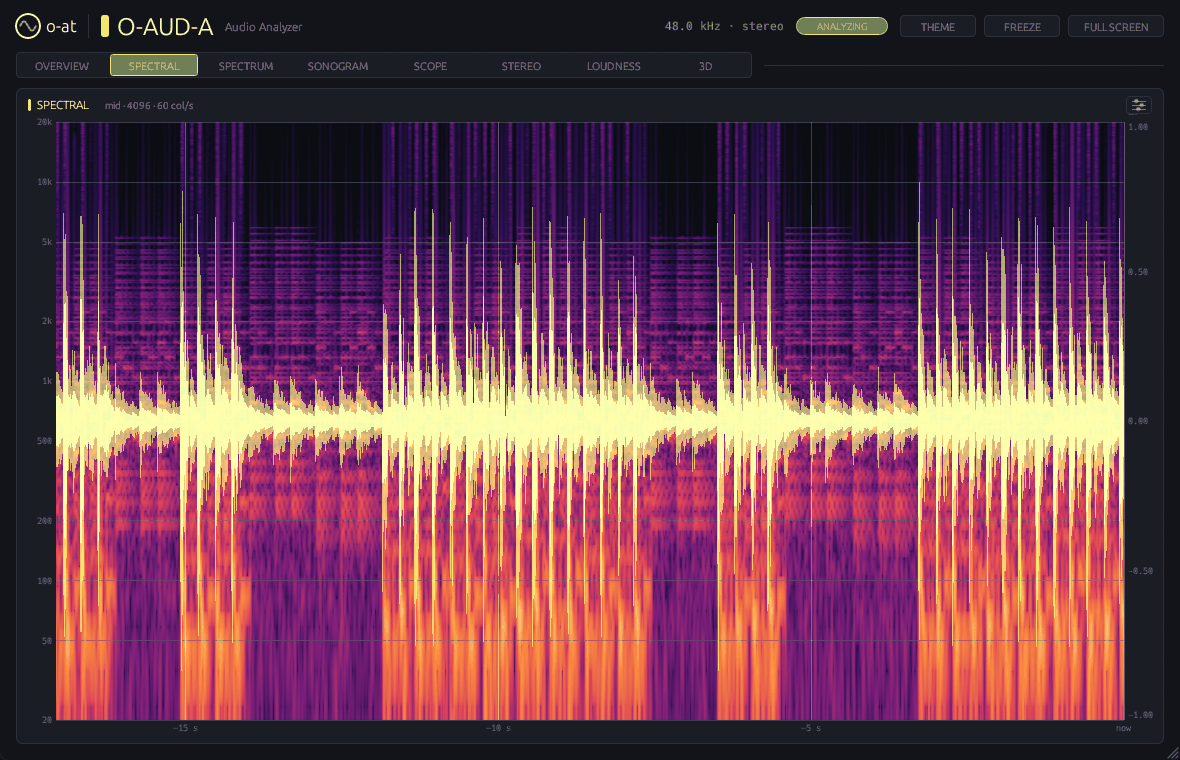
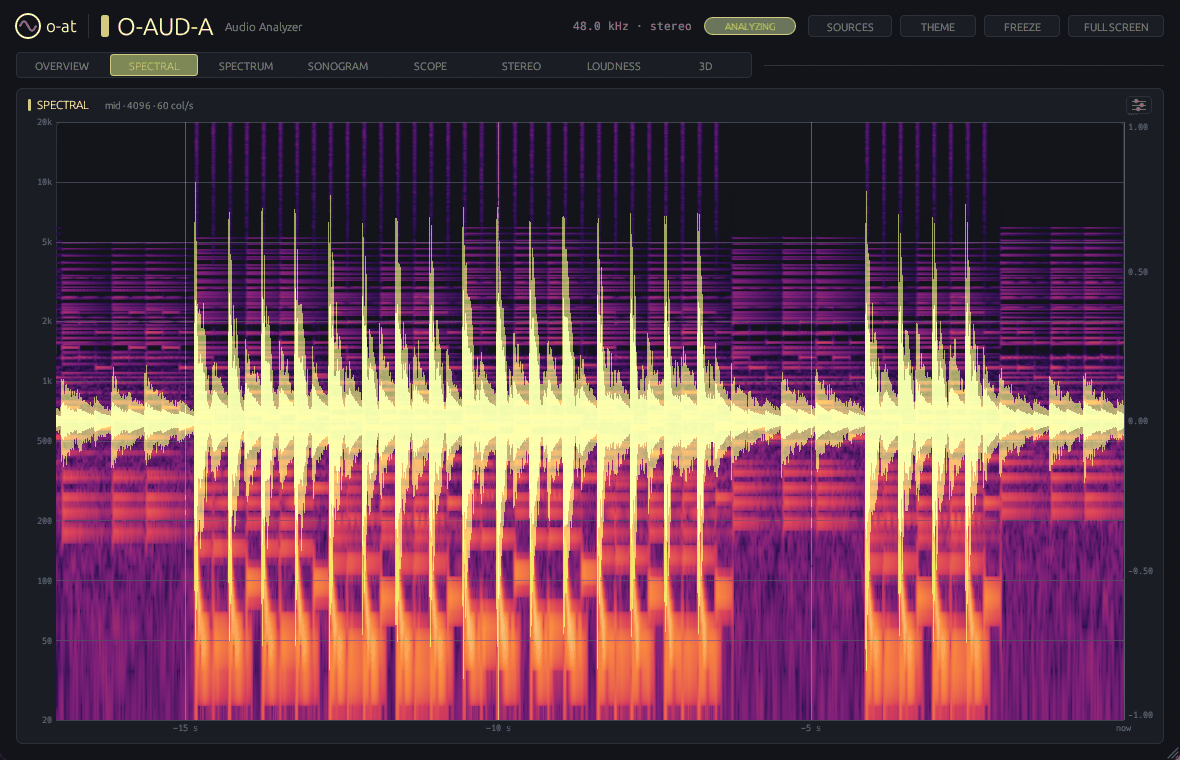
Updated docs

diff --git a/README.md b/README.md
@@ -222,6 +222,8 @@ Don't play the bus on the device it captures: that feeds back. It remembers its 
 source and settings in `%APPDATA%\O-AUD-TX\settings.ini`, and accepts `--bus NAME`,
 `--input NAME` and `--loopback NAME` (`default` selects the system default device).
 
+![O-AUD-TX application sending an input device, with its AUDIO SOURCE panel](docs/o-aud-tx-app.png)
+
 Build them with:
 
 ```bash
@@ -289,7 +291,8 @@ analysis fell behind. Its pages, in this order, show:
 | **3D**: the spectrum history as a shaded surface with the 3D grid on; the footer shows the camera's yaw, pitch and zoom. | **Settings**: the spectrum's SETTINGS tab, with segmented selectors and sliders. |
 
 The screenshots show a synthetic test piece: chords, bass, drums and a melody, panned
-across the stereo field.
+across the stereo field. The comparisons below add a louder, brighter and wider copy of
+it as the bus **Reference**.
 
 ### Sources: comparing tracks and references
 
@@ -297,6 +300,8 @@ across the stereo field.
 to the input, up to eight, each with a color of its own. The panel lists every source's
 format and momentary, short-term and integrated loudness. Pick a live bus from the list
 or type a name, which waits for its transmitter.
+
+![SOURCES panel with the input and a Reference bus, over the spectrum with match level and masking](docs/o-aud-a/sources.png)
 
 Every view chooses its signals under **SIGNALS** at the top of its settings: INPUT and
 each listed bus, as toggles in their colors. One signal is drawn as usual, with all of
@@ -314,6 +319,8 @@ the view's settings; several are overlaid, each in its color and named in the he
 Every view shows every listed bus until you hide it there; a source's dot in the panel
 shows or hides it on the spectrum. Sessions from before per-view signals keep the
 spectrum curves they had hidden. Removing a bus removes it from every view.
+
+![Overview with the input and the Reference bus overlaid in every view](docs/o-aud-a/compare.png)
 
 - **Match level** shifts each further spectrum curve by its loudness difference to the
   first (integrated loudness, short-term until that is measured), for comparisons at
@@ -342,6 +349,8 @@ gain the platform applies, the loudness and true peak after it and what happens:
   (Spotify, Apple Music), so a quiet, peaky track stays quieter.
 - **limited**: Spotify Loud turns up all the way and limits the peaks.
 - A red true peak is above the ceiling after the gain, where lossy encoding may clip.
+
+![PLATFORMS table for the input and the louder Reference bus](docs/o-aud-a/platforms.png)
 
 It works from the integrated loudness and the true peak maximum, so play the whole
 track (or the loudest part, for a quick check). With several signals, each has a column
